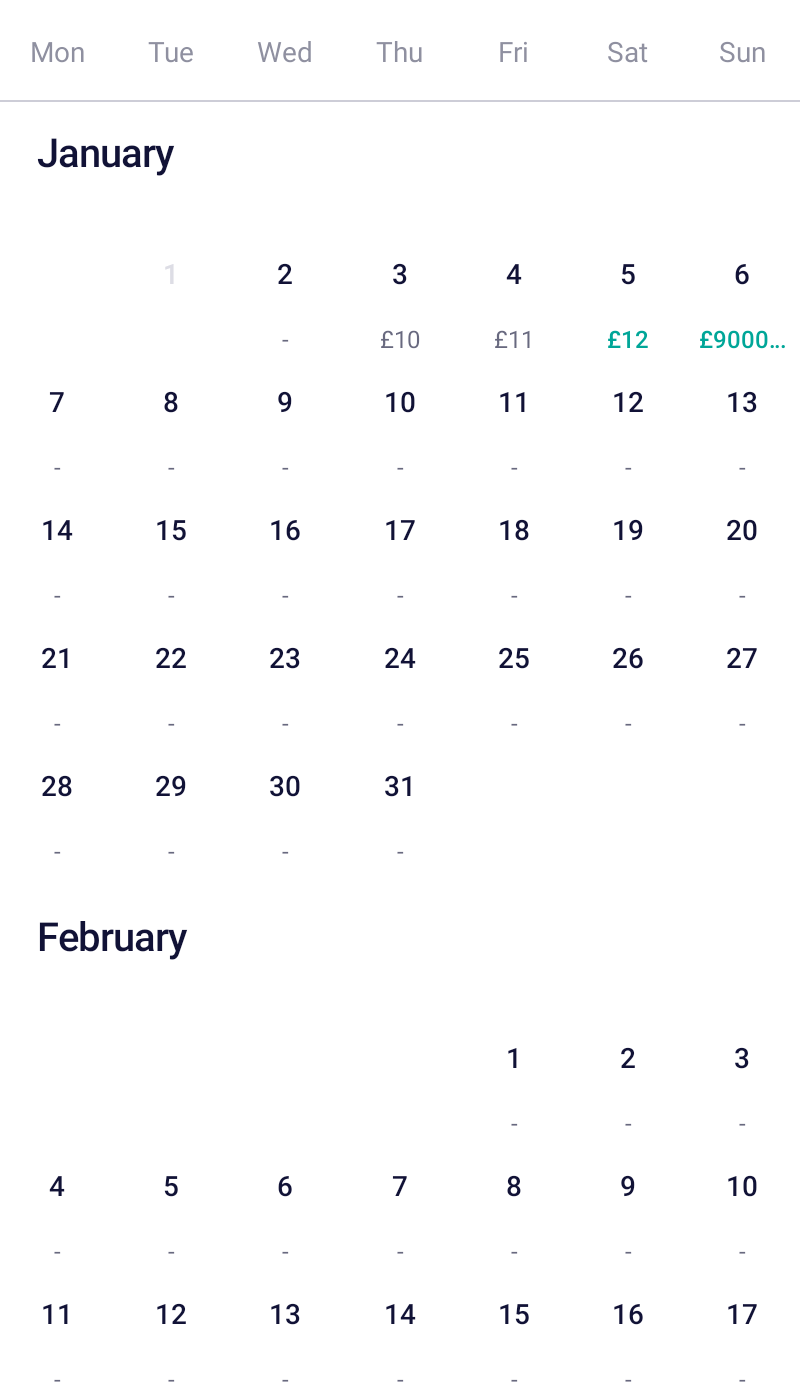
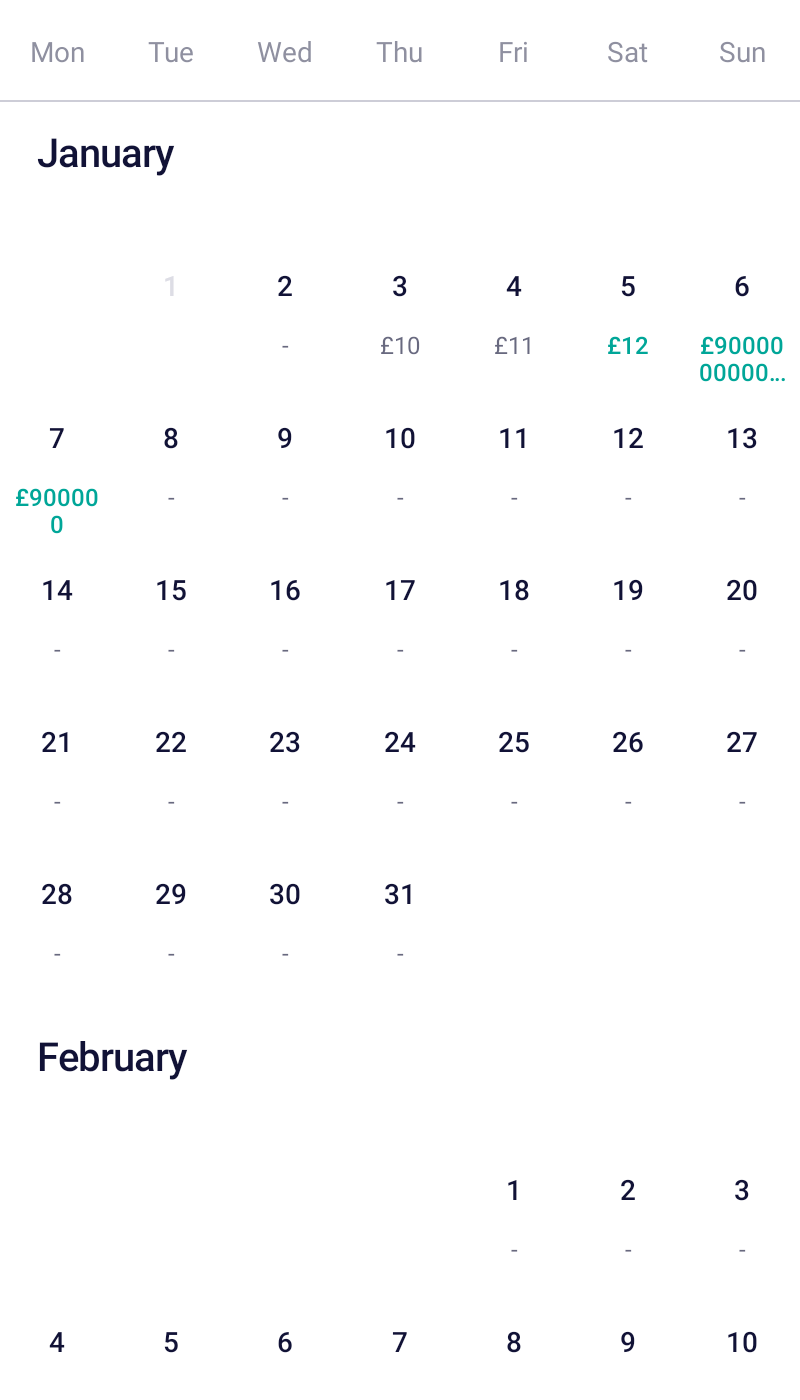
Updated the screenshots.

diff --git a/app/src/androidTest/java/net/skyscanner/backpack/calendar/BpkCalendarTest.kt b/app/src/androidTest/java/net/skyscanner/backpack/calendar/BpkCalendarTest.kt
@@ -151,6 +151,8 @@ class BpkCalendarTest : BpkSnapshotTest() {
           CalendarLabel(text = "£12", style = CalendarLabel.Style.PriceLow),
         LocalDate.of(initialStartDate.year, initialStartDate.month, initialStartDate.dayOfMonth + 4) to
           CalendarLabel(text = "£900000000000000", style = CalendarLabel.Style.PriceLow),
+        LocalDate.of(initialStartDate.year, initialStartDate.month, initialStartDate.dayOfMonth + 5) to
+          CalendarLabel(text = "£900000", style = CalendarLabel.Style.PriceLow),
       ),
     )
 
